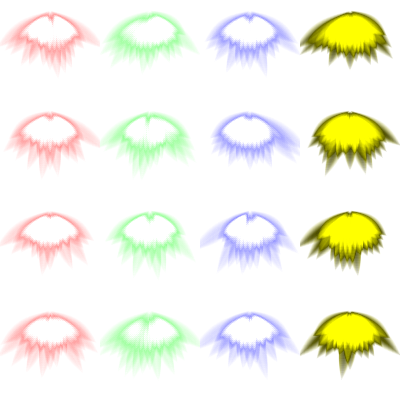
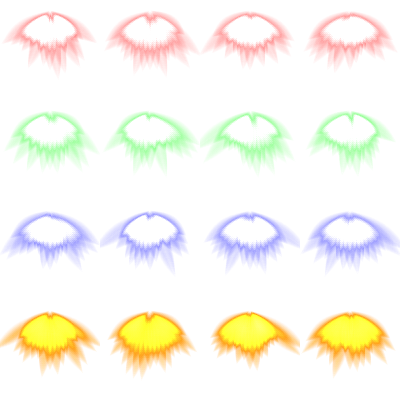
laser

diff --git a/test/bounding.html b/test/bounding.html
@@ -45,12 +45,15 @@ tm.main(function() {
         }
     }
 
-    var bt = tm.asset.Texture("../assets/laser_h.png");
-    var ht = tm.asset.Texture("../assets/laser_h_head.png");
-    var ft = tm.asset.Texture("../assets/laser_h_foot.png");
-    var at = tm.asset.Texture("../assets/aura.png");
-
-    var laser = gls2.Laser(bt, ht, ft, at, 40)
+    var laser = gls2.Laser({
+        redBody: tm.asset.Texture("../assets/laser_r.png"),
+        greenBody: tm.asset.Texture("../assets/laser_g.png"),
+        blueBody: tm.asset.Texture("../assets/laser_b.png"),
+        hyperBody: tm.asset.Texture("../assets/laser_h.png"),
+        head: tm.asset.Texture("../assets/laser_head.png"),
+        foot: tm.asset.Texture("../assets/laser_foot.png"),
+        aura: tm.asset.Texture("../assets/aura.png"),
+    }, 40)
         .setPosition(200, 150)
         .addChildTo(scene);
     laser.onenterframe = function(app) {
@@ -81,8 +84,12 @@ gls2.Laser = tm.createClass({
     hitY: 0,
     frame: 0,
 
-    init: function(bodyTexture, headTexture, footTexture, auraTexture, width) {
-        this.superInit(bodyTexture, width, 100);
+    color: null,    
+
+    init: function(textures, width) {
+        this.color = "hyper",
+
+        this.superInit(textures[this.color + "Body"], width, 100);
 
         this.boundingType = "rect";
 
@@ -91,69 +98,117 @@ gls2.Laser = tm.createClass({
 
         this.srcRect.x = 0;
         this.srcRect.y = 0;
-        this.srcRect.width = bodyTexture.width / 16;
+        this.srcRect.width = textures[this.color + "Body"].width / 16;
 
-        var a = tm.app.AnimationSprite(tm.app.SpriteSheet({
-            image: auraTexture,
+        var a = this.aura = tm.app.AnimationSprite(tm.app.SpriteSheet({
+            image: textures.aura,
             frame: {
                 width: 100,
                 height: 100
             },
             animations: {
-                "anim": {
-                    frames: [3, 7, 11, 15],
-                    next: "anim",
+                "red": {
+                    frames: [0, 1, 2, 3],
+                    next: "red",
                     frequency: 2,
-                }
+                },
+                "green": {
+                    frames: [4, 5, 6, 7],
+                    next: "green",
+                    frequency: 2,
+                },
+                "blue": {
+                    frames: [8, 9, 10, 11],
+                    next: "blue",
+                    frequency: 2,
+                },
+                "hyper": {
+                    frames: [12, 13, 14, 15],
+                    next: "hyper",
+                    frequency: 2,
+                },
             }
-        }), 80, 80);
-        a.y = 30;
-        a.gotoAndPlay("anim");
+        }), 100, 100);
+        a.y = 40;
+        a.gotoAndPlay(this.color);
         a.addChildTo(this);
 
-        var f = tm.app.AnimationSprite(tm.app.SpriteSheet({
-            image: footTexture,
+        var f = this.foot = tm.app.AnimationSprite(tm.app.SpriteSheet({
+            image: textures.foot,
             frame: {
-                width: 128,
-                height: 64
+                width: 120,
+                height: 80
             },
             animations: {
-                "anim": {
+                "red": {
                     frames: [0, 1, 2, 3],
-                    next: "anim",
+                    next: "red",
                     frequency: 2,
-                }
+                },
+                "green": {
+                    frames: [4, 5, 6, 7],
+                    next: "green",
+                    frequency: 2,
+                },
+                "blue": {
+                    frames: [8, 9, 10, 11],
+                    next: "blue",
+                    frequency: 2,
+                },
+                "hyper": {
+                    frames: [12, 13, 14, 15],
+                    next: "hyper",
+                    frequency: 2,
+                },
             }
-        }), 96, 48);
-        f.gotoAndPlay("anim");
+        }), 120, 60);
+        f.gotoAndPlay(this.color);
         f.addChildTo(this);
 
-        var h = tm.app.AnimationSprite(tm.app.SpriteSheet({
-            image: headTexture,
+        var h = this.head = tm.app.AnimationSprite(tm.app.SpriteSheet({
+            image: textures.head,
             frame: {
                 width: 80,
                 height: 80
             },
             animations: {
-                "anim": {
+                "red": {
                     frames: [0, 1, 2, 3],
-                    next: "anim",
+                    next: "red",
                     frequency: 2,
-                }
+                },
+                "green": {
+                    frames: [4, 5, 6, 7],
+                    next: "green",
+                    frequency: 2,
+                },
+                "blue": {
+                    frames: [8, 9, 10, 11],
+                    next: "blue",
+                    frequency: 2,
+                },
+                "hyper": {
+                    frames: [12, 13, 14, 15],
+                    next: "hyper",
+                    frequency: 2,
+                },
             }
         }), 120, 120);
-        h.gotoAndPlay("anim");
+        h.gotoAndPlay(this.color);
         h.addChildTo(this);
         var self = this;
         h.update = function() {
             this.y = self.hitY - self.y;
+            if (self.y - 100 < this.y) {
+                this.y = self.y - 100;
+            }
             this.visible = self.hitY !== 0;
         };
 
-        // this.blendMode = "lighter";
-        // a.blendMode = "lighter";
-        // f.blendMode = "lighter";
-        // h.blendMode = "lighter";
+        this.blendMode = "lighter";
+        a.blendMode = "lighter";
+        f.blendMode = "lighter";
+        h.blendMode = "lighter";
 
     },
 

diff --git a/assets/raw/laser_foot.html b/assets/raw/laser_foot.html
@@ -3,47 +3,71 @@
 <script src="../../libs/tmlib.js"></script>
 <script>
 tm.main(function() {
-    var canvas = tm.graphics.Canvas("#c");
-    canvas.resize(128, 64);
-    canvas.globalCompositeOperation = "lighter";
+    var out = tm.graphics.Canvas();
+    out.resize(120*4, 80*4);
 
-    var out = tm.graphics.Canvas("#out");
-    out.resize(128*4, 64);
+    var col0 = [
+    "rgba(255, 100, 100, 0.1)",
+    "rgba(100, 255, 100, 0.1)",
+    "rgba(100, 100, 255, 0.1)",
+    "rgba(255, 200,  50, 0.1)",
+    ];
+    var col1 = [
+    "rgba(255,   0,   0, 0.0)",
+    "rgba(  0, 255,   0, 0.0)",
+    "rgba(  0,   0, 255, 0.0)",
+    "rgba(255, 100,   0, 0.0)",
+    ];
 
-    var gen = function() {
-        canvas.clear();
-        for (var i = 0; i < 40; i++) {
-            var cx = (Math.rand(54-20, 54+20) + Math.rand(54-20, 54+20)) / 2;
-            var cy = Math.rand(32-4, 32+4);
-            var rd = Math.rand(24, 38);
-            canvas.fillStyle = tm.graphics.RadialGradient(cx, cy, 0, cx, cy, rd*0.8).addColorStopList([
-                { offset: 0.00, color: "rgba(180, 100, 50, 0.2)" },
-                { offset: 0.20, color: "rgba(180, 100, 50, 0.1)" },
-                { offset: 1.00, color: "rgba(255, 250,  0, 0.0)" },
+    var d = function(x, y) {
+        var canvas = tm.graphics.Canvas("#c");
+
+        canvas.resize(120, 80); //.fitWindow();
+        canvas.globalCompositeOperation = "lighter";
+
+        for (var i = 0; i < 50; i++) {
+            var cx = (Math.rand(40-15, 40+15) + Math.rand(40-15, 40+15)) / 2;
+            var cy = (Math.rand(40-15, 40+15) + Math.rand(40-15, 40+15)) / 2;
+            var rd = Math.rand(10, 20);
+            canvas.fillStyle = tm.graphics.RadialGradient(cx, cy, 0, cx, cy, rd*1.2).addColorStopList([
+                { offset: 0.00, color: col0[y] },
+                { offset: 0.20, color: col0[y] },
+                { offset: 1.00, color: col1[y] },
             ]).toStyle();
-            canvas.fillStar(cx, cy, rd, 8, 0.2);
-        }
-        for (var i = 0; i < 40; i++) {
-            var cx = (Math.rand(74-20, 74+20) + Math.rand(74-20, 74+20)) / 2;
-            var cy = Math.rand(32-4, 32+4);
-            var rd = Math.rand(24, 38);
-            canvas.fillStyle = tm.graphics.RadialGradient(cx, cy, 0, cx, cy, rd*0.8).addColorStopList([
-                { offset: 0.00, color: "rgba(180, 100, 50, 0.2)" },
-                { offset: 0.20, color: "rgba(180, 100, 50, 0.1)" },
-                { offset: 1.00, color: "rgba(255, 250,  0, 0.0)" },
+            canvas.fillStar(cx, cy, rd, 8, 0.4);
+
+            var cx = (Math.rand(60-15, 60+15) + Math.rand(60-15, 60+15)) / 2;
+            var cy = (Math.rand(40-15, 40+15) + Math.rand(40-15, 40+15)) / 2;
+            var rd = Math.rand(15, 30);
+            canvas.fillStyle = tm.graphics.RadialGradient(cx, cy, 0, cx, cy, rd*1.2).addColorStopList([
+                { offset: 0.00, color: col0[y] },
+                { offset: 0.20, color: col0[y] },
+                { offset: 1.00, color: col1[y] },
             ]).toStyle();
-            canvas.fillStar(cx, cy, rd, 8, 0.2, Math.rand(0, 360));
+            canvas.fillStar(cx, cy, rd, 8, 0.4);
+
+            var cx = (Math.rand(80-15, 80+15) + Math.rand(80-15, 80+15)) / 2;
+            var cy = (Math.rand(40-15, 40+15) + Math.rand(40-15, 40+15)) / 2;
+            var rd = Math.rand(10, 20);
+            canvas.fillStyle = tm.graphics.RadialGradient(cx, cy, 0, cx, cy, rd*1.2).addColorStopList([
+                { offset: 0.00, color: col0[y] },
+                { offset: 0.20, color: col0[y] },
+                { offset: 1.00, color: col1[y] },
+            ]).toStyle();
+            canvas.fillStar(cx, cy, rd, 8, 0.4);
         }
+
+        out.drawImage(canvas.element, 120*x, 80*y);
     };
 
     for (var i = 0; i < 4; i++) {
-        gen();
-        out.drawImage(canvas.element, i*128, 0);
+        for (var j = 0; j < 4; j++) {
+            d(j, i);
+        }
     }
+
     out.saveAsImage();
-
 });
-
 </script>
 </head>
 <body style="background:black">

diff --git a/assets/raw/laser_head.html b/assets/raw/laser_head.html
@@ -4,9 +4,22 @@
 <script>
 tm.main(function() {
     var out = tm.graphics.Canvas();
-    out.resize(80*4, 80);
+    out.resize(80*4, 80*4);
 
-    var d = function(x) {
+    var col0 = [
+    "rgba(255, 100, 100, 0.1)",
+    "rgba(100, 255, 100, 0.1)",
+    "rgba(100, 100, 255, 0.1)",
+    "rgba(255, 200,  50, 0.1)",
+    ];
+    var col1 = [
+    "rgba(255,   0,   0, 0.0)",
+    "rgba(  0, 255,   0, 0.0)",
+    "rgba(  0,   0, 255, 0.0)",
+    "rgba(255, 100,   0, 0.0)",
+    ];
+
+    var d = function(x, y) {
         var canvas = tm.graphics.Canvas("#c");
 
         canvas.resize(80, 80); //.fitWindow();
@@ -16,21 +29,22 @@ tm.main(function() {
             var cx = (Math.rand(40-10, 40+10) + Math.rand(40-10, 40+10)) / 2;
             var cy = (Math.rand(40-10, 40+10) + Math.rand(40-10, 40+10)) / 2;
             var rd = Math.rand(35, 40);
-            canvas.fillStyle = tm.graphics.RadialGradient(cx, cy, 0, cx, cy, rd*0.8).addColorStopList([
-                { offset: 0.00, color: "rgba(255, 255, 150, 0.1)" },
-                { offset: 0.20, color: "rgba(255, 255, 150, 0.1)" },
-                { offset: 1.00, color: "rgba(255, 255,   0, 0.0)" },
+            canvas.fillStyle = tm.graphics.RadialGradient(cx, cy, 0, cx, cy, rd*1.2).addColorStopList([
+                { offset: 0.00, color: col0[y] },
+                { offset: 0.20, color: col0[y] },
+                { offset: 1.00, color: col1[y] },
             ]).toStyle();
-            canvas.fillStar(cx, cy, rd, 13, 0.2);
+            canvas.fillStar(cx, cy, rd, 13, 0.3);
         }
 
-        out.drawImage(canvas.element, 80 * x, 0);
+        out.drawImage(canvas.element, 80*x, 80*y);
     };
 
-    d(0);
-    d(1);
-    d(2);
-    d(3);
+    for (var i = 0; i < 4; i++) {
+        for (var j = 0; j < 4; j++) {
+            d(j, i);
+        }
+    }
 
     out.saveAsImage();
 });

diff --git a/assets/raw/aura.html b/assets/raw/aura.html
@@ -40,8 +40,8 @@ tm.main(function() {
         if (rad <= 0) return;
         canvas
             .setFillStyle(tm.graphics.RadialGradient(x,y,0,x,y,rad*2).addColorStopList([
-                {offset:0,color:"rgba(  0,  0,  0,0.1)"},
-                {offset:1,color:"rgba(255,255,  0,0.1)"},
+                {offset:0,color:"rgba(255, 200,  50, 0.1)"},
+                {offset:1,color:"rgba(255, 100,   0, 0.0)"},
             ]).toStyle())
             .fillRect(x-rad,y-rad,rad*2,rad*2);
     };
@@ -69,7 +69,7 @@ tm.main(function() {
             d2(-i, 1.2*Math.randf(0.7,1.2), 16, dr);
             d2( i, 1.2*Math.randf(0.7,1.2), 16, dr);
         }
-        out.drawImage(canvas.element, S*0, S*row);
+        out.drawImage(canvas.element, S*row, S*0);
 
         canvas.clear();
         d2(    0, 1.2, 16, dg);
@@ -77,7 +77,7 @@ tm.main(function() {
             d2(-i, 1.2*Math.randf(0.7,1.2), 16, dg);
             d2( i, 1.2*Math.randf(0.7,1.2), 16, dg);
         }
-        out.drawImage(canvas.element, S*1, S*row);
+        out.drawImage(canvas.element, S*row, S*1);
 
         canvas.clear();
         d2(    0, 1.2, 16, db);
@@ -85,7 +85,7 @@ tm.main(function() {
             d2(-i, 1.2*Math.randf(0.7,1.2), 16, db);
             d2( i, 1.2*Math.randf(0.7,1.2), 16, db);
         }
-        out.drawImage(canvas.element, S*2, S*row);
+        out.drawImage(canvas.element, S*row, S*2);
 
         canvas.clear();
         d2(    0, 1.2, 16, dh);
@@ -93,7 +93,7 @@ tm.main(function() {
             d2(-i, 1.2*Math.randf(0.7,1.2), 16, dh);
             d2( i, 1.2*Math.randf(0.7,1.2), 16, dh);
         }
-        out.drawImage(canvas.element, S*3, S*row);
+        out.drawImage(canvas.element, S*row, S*3);
     }
 
     tm.dom.Element("#c").event.click(function() {

diff --git a/assets/raw/laser.html b/assets/raw/laser.html
@@ -25,7 +25,7 @@ tm.main(function() {
         this.fillRect(x - rad, y - rad, rad*2, rad*2);
     };
 
-    var col0 = [200,200,200,0.05];
+    var col0 = [200,200,200,0.03];
     var col1 = [255,255,255];
     var col2 = [0,0,255,0.0];
     // var col0 = [127,127,75,0.05];
